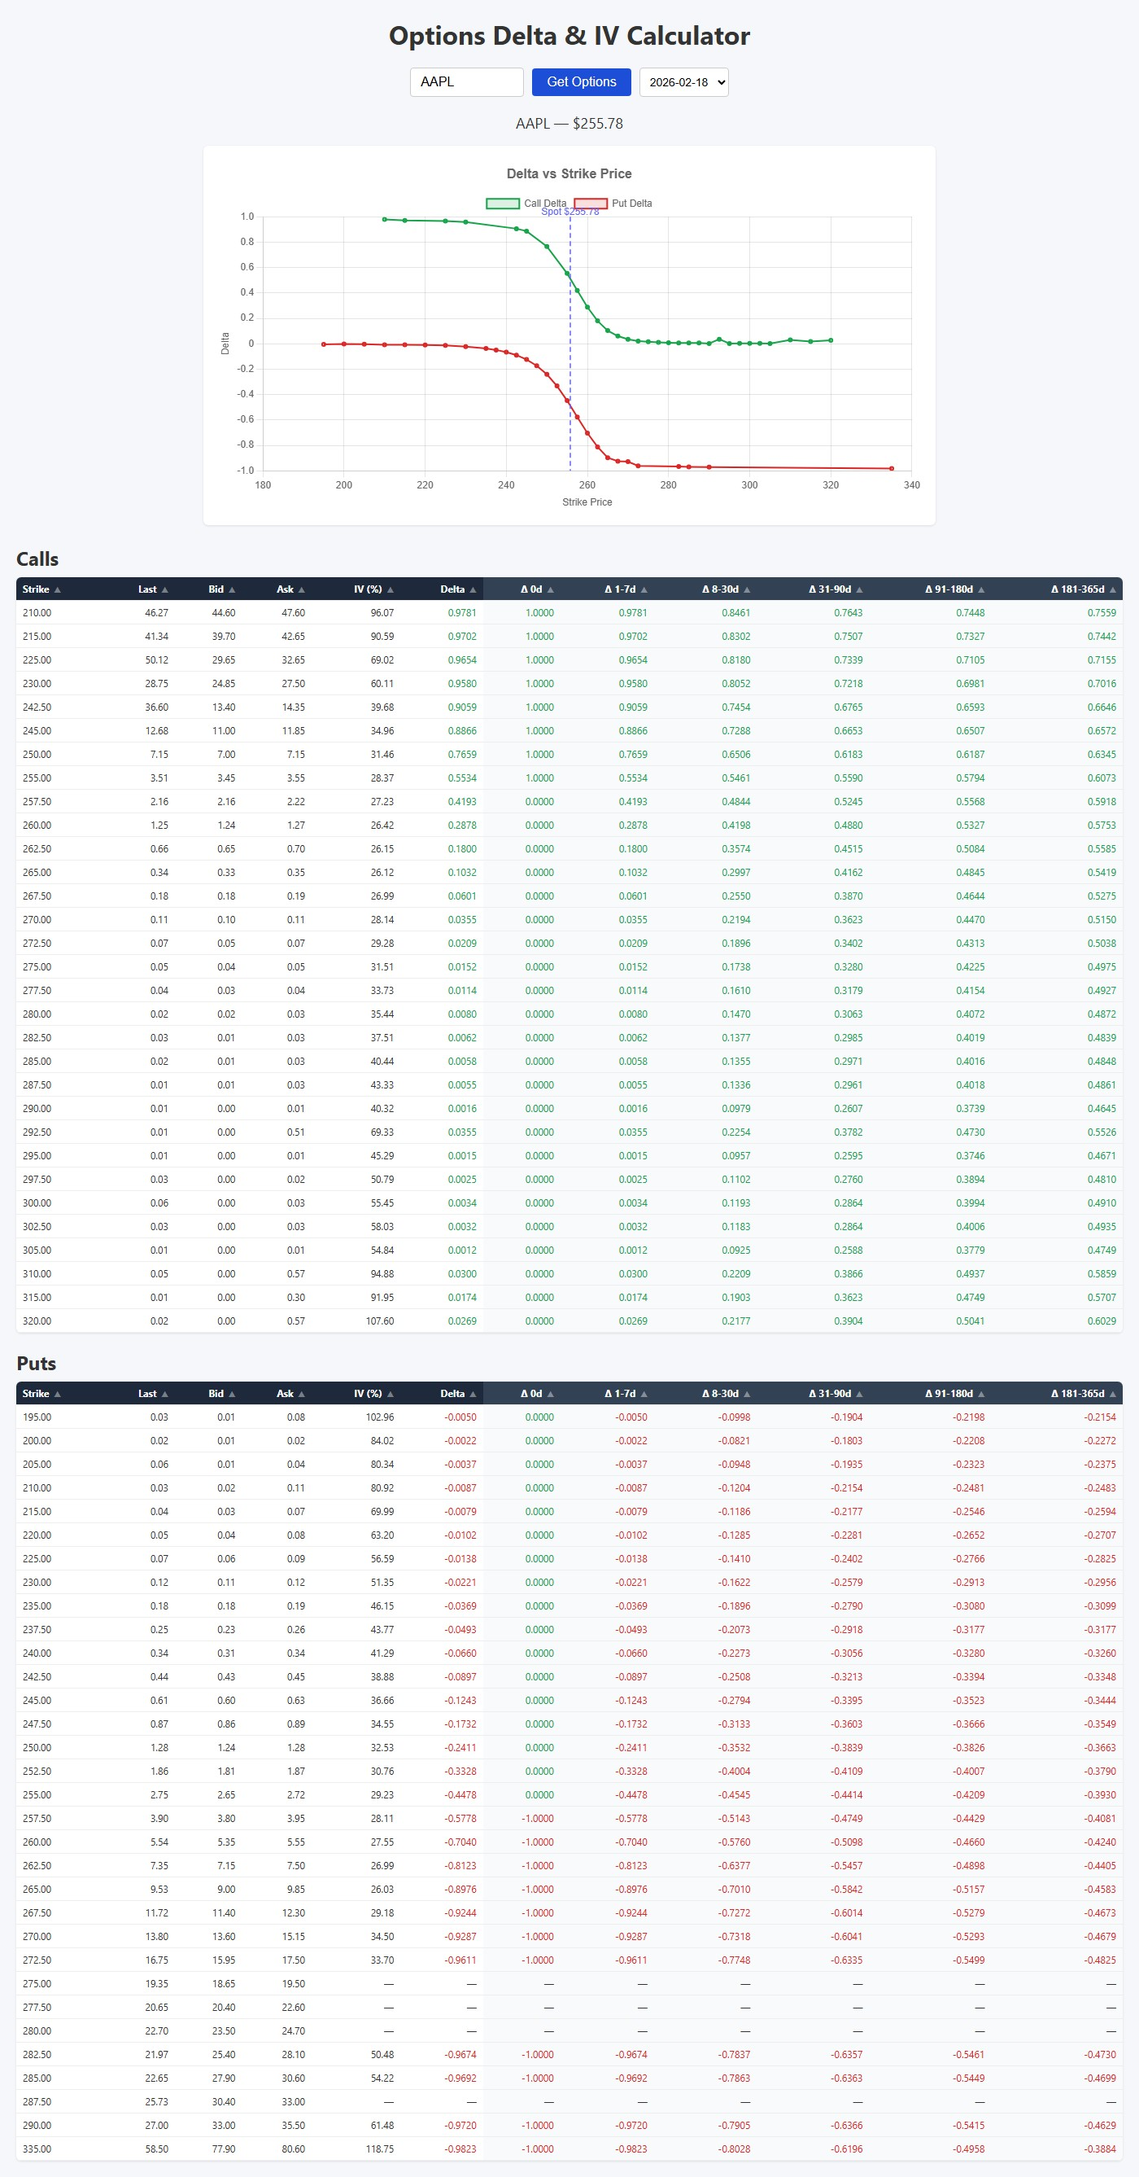
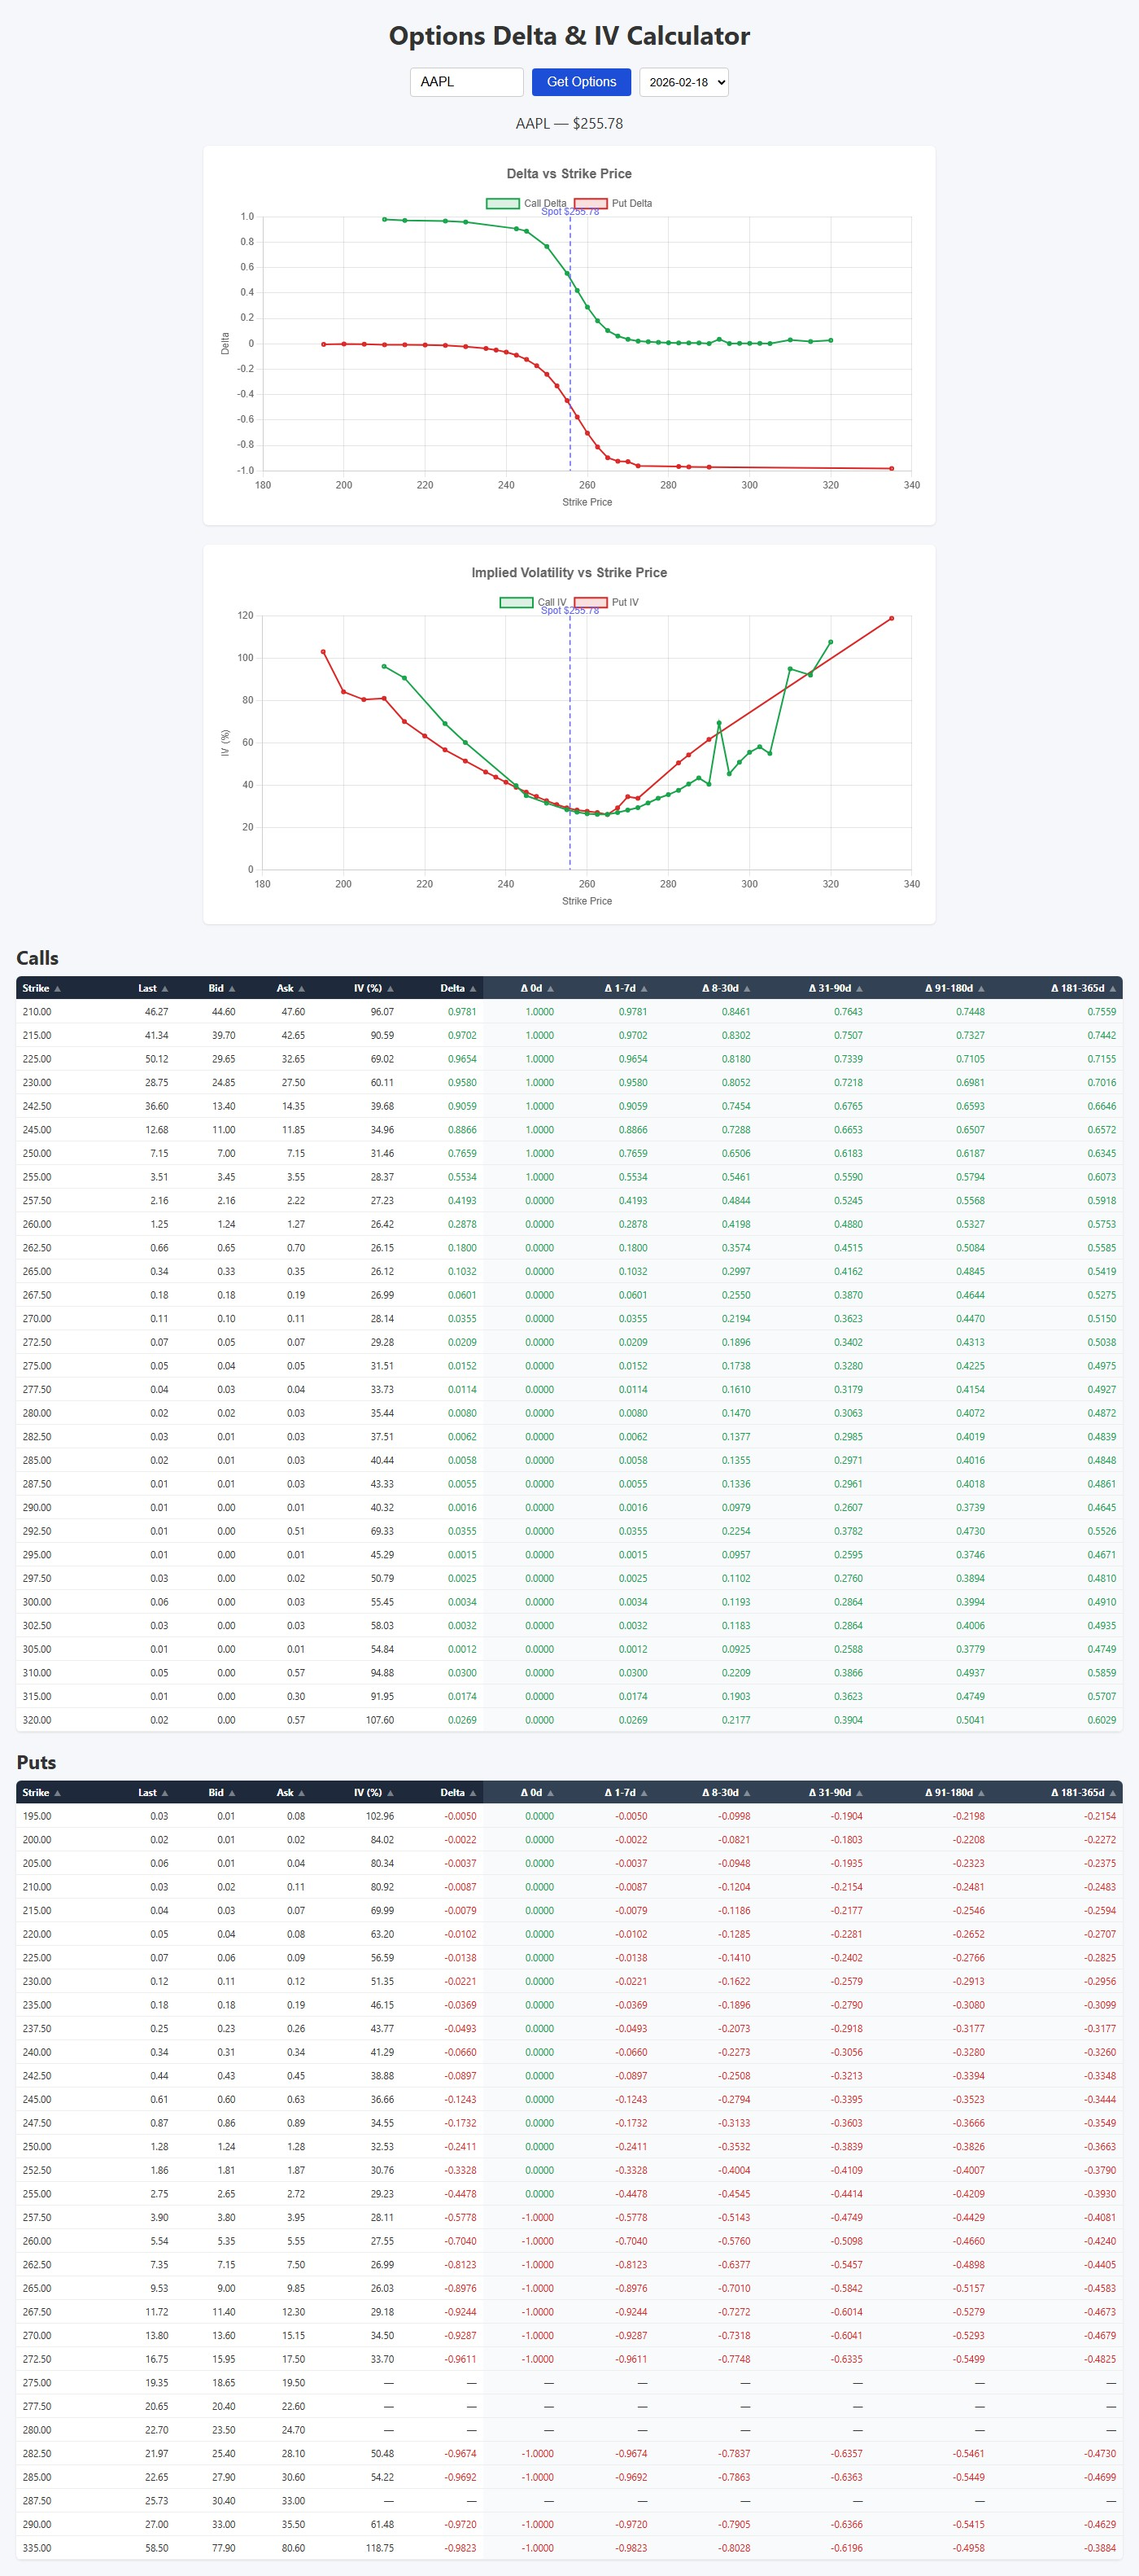
Add IV vs strike price chart
Shows implied volatility smile/skew for calls and puts. Refactored spot
price vertical line into shared plugin used by both charts.

diff --git a/templates/index.html b/templates/index.html
@@ -101,16 +101,47 @@ function renderExpiration() {
   const content = document.getElementById("content");
 
   content.innerHTML = '<div class="chart-wrap"><canvas id="deltaChart"></canvas></div>'
+    + '<div class="chart-wrap"><canvas id="ivChart"></canvas></div>'
     + '<div class="tables">'
     + '<div class="table-wrap"><h2>Calls</h2><div id="table-calls"></div></div>'
     + '<div class="table-wrap"><h2>Puts</h2><div id="table-puts"></div></div>'
     + '</div>';
   renderDeltaChart(exp.calls, exp.puts, optionsData.price);
+  renderIvChart(exp.calls, exp.puts, optionsData.price);
   buildSortableTable("table-calls", exp.calls);
   buildSortableTable("table-puts", exp.puts);
 }
 
 let deltaChartInstance = null;
+let ivChartInstance = null;
+
+function makeSpotLinePlugin(spotPrice) {
+  return {
+    id: "spotLine",
+    afterDraw(chart) {
+      const xScale = chart.scales.x;
+      const yScale = chart.scales.y;
+      const x = xScale.getPixelForValue(spotPrice);
+      if (x >= xScale.left && x <= xScale.right) {
+        const ctx = chart.ctx;
+        ctx.save();
+        ctx.beginPath();
+        ctx.setLineDash([6, 4]);
+        ctx.strokeStyle = "#6366f1";
+        ctx.lineWidth = 1.5;
+        ctx.moveTo(x, yScale.top);
+        ctx.lineTo(x, yScale.bottom);
+        ctx.stroke();
+        ctx.setLineDash([]);
+        ctx.fillStyle = "#6366f1";
+        ctx.font = "12px sans-serif";
+        ctx.textAlign = "center";
+        ctx.fillText("Spot $" + spotPrice.toFixed(2), x, yScale.top - 6);
+        ctx.restore();
+      }
+    },
+  };
+}
 
 function renderDeltaChart(calls, puts, spotPrice) {
   if (deltaChartInstance) deltaChartInstance.destroy();
@@ -150,38 +181,61 @@ function renderDeltaChart(calls, puts, spotPrice) {
       responsive: true,
       plugins: {
         title: { display: true, text: "Delta vs Strike Price", font: { size: 16 } },
-        annotation: undefined,
       },
       scales: {
         x: { title: { display: true, text: "Strike Price" } },
         y: { title: { display: true, text: "Delta" }, min: -1, max: 1 },
       },
     },
-    plugins: [{
-      id: "spotLine",
-      afterDraw(chart) {
-        const xScale = chart.scales.x;
-        const yScale = chart.scales.y;
-        const x = xScale.getPixelForValue(spotPrice);
-        if (x >= xScale.left && x <= xScale.right) {
-          const ctx = chart.ctx;
-          ctx.save();
-          ctx.beginPath();
-          ctx.setLineDash([6, 4]);
-          ctx.strokeStyle = "#6366f1";
-          ctx.lineWidth = 1.5;
-          ctx.moveTo(x, yScale.top);
-          ctx.lineTo(x, yScale.bottom);
-          ctx.stroke();
-          ctx.setLineDash([]);
-          ctx.fillStyle = "#6366f1";
-          ctx.font = "12px sans-serif";
-          ctx.textAlign = "center";
-          ctx.fillText("Spot $" + spotPrice.toFixed(2), x, yScale.top - 6);
-          ctx.restore();
-        }
+    plugins: [makeSpotLinePlugin(spotPrice)],
+  });
+}
+
+function renderIvChart(calls, puts, spotPrice) {
+  if (ivChartInstance) ivChartInstance.destroy();
+
+  const callData = calls
+    .filter(r => r.iv !== null)
+    .map(r => ({ x: r.strike, y: r.iv }));
+  const putData = puts
+    .filter(r => r.iv !== null)
+    .map(r => ({ x: r.strike, y: r.iv }));
+
+  ivChartInstance = new Chart(document.getElementById("ivChart"), {
+    type: "scatter",
+    data: {
+      datasets: [
+        {
+          label: "Call IV",
+          data: callData,
+          borderColor: "#16a34a",
+          backgroundColor: "rgba(22,163,74,0.15)",
+          showLine: true,
+          pointRadius: 2,
+          borderWidth: 2,
+        },
+        {
+          label: "Put IV",
+          data: putData,
+          borderColor: "#dc2626",
+          backgroundColor: "rgba(220,38,38,0.15)",
+          showLine: true,
+          pointRadius: 2,
+          borderWidth: 2,
+        },
+      ],
+    },
+    options: {
+      responsive: true,
+      plugins: {
+        title: { display: true, text: "Implied Volatility vs Strike Price", font: { size: 16 } },
       },
-    }],
+      scales: {
+        x: { title: { display: true, text: "Strike Price" } },
+        y: { title: { display: true, text: "IV (%)" }, min: 0 },
+      },
+    },
+    plugins: [makeSpotLinePlugin(spotPrice)],
   });
 }
 
